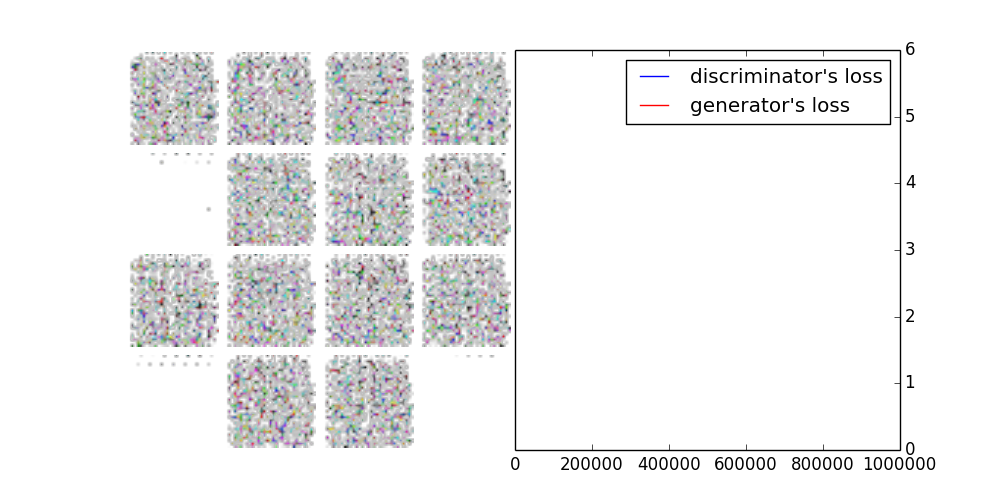
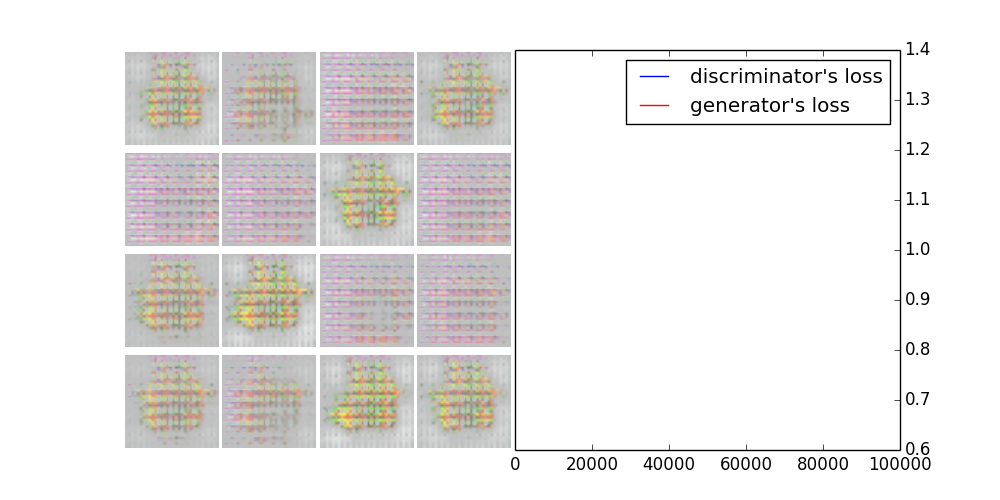
Add feature matching and use LeakyReLU instead of ReLU

diff --git a/main.py b/main.py
@@ -13,7 +13,7 @@ import scipy.misc
 import commands
 import time
 
-ITERATIONS = 100
+ITERATIONS = 10
 BATCH_SIZE = 64
 EPOCHS = 10000
 IMAGE_SIZE = 32*32*4
@@ -29,8 +29,7 @@ image_filenames = get_image_filenames() # Load all image filenames into memory
 
 def get_pixels_for_filename(filename):
     img = scipy.misc.imread(filename, mode='RGBA')
-    img = Image.fromarray(img)
-    return np.array(img.getdata())
+    return np.array(img)
 
 curr_image_idx = 0
 def get_next_image_batch(batch_size):
@@ -50,16 +49,19 @@ def get_next_image_batch(batch_size):
 				shuffle(image_filenames)
 			# Note that we don't store all pixels in memory bec of memory constraints
 			pix = get_pixels_for_filename(image_filenames[curr_image_idx])
-			if pix.shape != (1024, 4):
+			if pix.shape != (32, 32, 4):
 				print('Invalid pixels shape for file ' + image_filenames[curr_image_idx] + ': ' + str(pix.shape))
 				# Skip this image
 				curr_image_idx += 1
 				continue
 
-			batch[i] = get_pixels_for_filename(image_filenames[curr_image_idx]).reshape([IMAGE_SIZE])
+			batch[i] = pix.reshape([IMAGE_SIZE])
 			curr_image_idx += 1
 			break
 	return batch
+
+def denormalize_image(image):
+	return np.multiply(np.divide((1 + image), 2), 255)
 
 def plot(samples, D_loss, G_loss, epoch, total):
 	fig = plt.figure(figsize=(10, 5))
@@ -78,7 +80,7 @@ def plot(samples, D_loss, G_loss, epoch, total):
 	# Generate images
 	for i, sample in enumerate(samples):
 		# need to convert sample from range -1,1 to 0 255
-		sample = np.multiply(np.divide((1 + sample), 2), 255)
+		sample = denormalize_image(sample)
 		if i > 4* 4 - 1:
 			break
 		# Plot in the left half
@@ -87,7 +89,7 @@ def plot(samples, D_loss, G_loss, epoch, total):
 		ax.set_xticklabels([])
 		ax.set_yticklabels([])
 		ax.set_aspect('equal')
-		plt.imshow(sample.reshape(32, 32, 4))
+		plt.imshow(sample.reshape(32, 32, 4).astype(np.uint8))
 
 	plt.savefig('./output/' + str(epoch + 1) + '.png')
 	print('./output/' + str(epoch + 1) + '.png')
@@ -96,6 +98,10 @@ def plot(samples, D_loss, G_loss, epoch, total):
 def variable_summaries(var):
 	"""Attach a lot of summaries to a Tensor (for TensorBoard visualization)."""
 	tf.summary.histogram(var.op.name, var)
+
+def gaussian_noise_layer(input_layer, std):
+	noise = tf.random_normal(shape=tf.shape(input_layer), mean=0.0, stddev=std, dtype=tf.float32) 
+	return input_layer + noise
 
 def Conv2d(input, output_dim=64, kernel=(5, 5), strides=(2, 2), stddev=0.02, name='conv_2d'):
 
@@ -151,13 +157,14 @@ def Dense(input, output_dim, stddev=0.02, name='dense'):
 def BatchNormalization(input, name='bn'):
 	return tf.contrib.layers.batch_norm(input, center=True, scale=True, decay=0.9, is_training=True, updates_collections=None, epsilon=1e-5)	
 	
-def LeakyReLU(input, leak=0.2, name='lrelu'):
+def LeakyReLU(input, leak=0.4, name='lrelu'):
 	
-	return tf.maximum(input, leak*input)
+	return tf.maximum(input, leak*input, name='LeakyRelu')
 
 def Discriminator(X, reuse=False, name='d'):
 	# 2 conv3s, avg pool. then 2 conv3s, avg pool.
 	with tf.variable_scope(name, reuse=reuse):
+		X = gaussian_noise_layer(X, 0.2)
 		if len(X.get_shape()) > 2:
 			# X: -1, 32, 32, 4
 			D_conv1 = Conv2d(X, output_dim=32, kernel=(3,3), name='Disc_conv1')
@@ -178,9 +185,9 @@ def Discriminator(X, reuse=False, name='d'):
 		D_h4_pooled = tf.nn.avg_pool(D_h4, ksize=[1, 2, 2, 1], strides=[1, 2, 2, 1], padding='SAME')
 
 		D_r = tf.reshape(D_h4_pooled, [-1, 256])
-		D_h5 = tf.nn.dropout(D_r, 0.7)
+		D_h5 = tf.nn.dropout(D_r, 0.6)
 		D_h6 = Dense(D_h5, output_dim=1, name='Disc_h6')
-		return tf.nn.sigmoid(D_h6), D_h6
+		return tf.nn.sigmoid(D_h6), D_h6, D_h4
 
 def Generator(z, name='g'):
 
@@ -192,29 +199,41 @@ def Generator(z, name='g'):
 
 		G_1 = Dense(z, output_dim=1024*4*4, name='Gen_1')
 		G_bn1 = BatchNormalization(G_1, name='Gen_bn1')
-		G_h1 = tf.nn.relu(G_bn1)
+		G_h1 = LeakyReLU(G_bn1)
+		with tf.name_scope('activation_1'):
+			variable_summaries(G_h1)
 		G_r1 = tf.reshape(G_h1, [-1, 4, 4, 1024])
 
 		G_conv2 = Deconv2d(G_r1, output_dim=512, batch_size=BATCH_SIZE, name='Gen_conv2')
 		G_bn2 = BatchNormalization(G_conv2, name='Gen_bn2')
-		G_h2 = tf.nn.relu(G_bn2)
+		G_h2 = LeakyReLU(G_bn2)
+		with tf.name_scope('activation_2'):
+			variable_summaries(G_h2)
 
 		G_conv3 = Deconv2d(G_h2, output_dim=256, batch_size=BATCH_SIZE, name='Gen_conv3')
 		G_bn3 = BatchNormalization(G_conv3, name='Gen_bn3')
-		G_h3 = tf.nn.relu(G_bn3)
+		G_h3 = LeakyReLU(G_bn3)
+		with tf.name_scope('activation_3'):
+			variable_summaries(G_h3)
 
 		G_conv4 = Deconv2d(G_h3, output_dim=4, batch_size=BATCH_SIZE, name='Gen_conv4')
 		G_bn4 = BatchNormalization(G_conv4, name='Gen_bn4')
-		G_h4 = tf.nn.relu(G_bn4)
-                G_r4 = tf.reshape(G_h4, [-1, 32*32*4]) # -1 is for batch size
-                return tf.nn.tanh(G_r4)
+		G_h4 = LeakyReLU(G_bn4)
+		with tf.name_scope('activation_4'):
+			variable_summaries(G_h4)
+
+		G_r4 = tf.reshape(G_h4, [-1, 32*32*4]) # -1 is for batch size
+		tanh_layer = tf.nn.tanh(G_r4)
+		with tf.name_scope('tanh'):
+			variable_summaries(tanh_layer)
+		return tanh_layer
 
 X = tf.placeholder(tf.float32, shape=[None, IMAGE_SIZE])
 z = tf.placeholder(tf.float32, shape=[None, 100])
 
 G = Generator(z, 'Generator')
-D_real_prob, D_real_logits = Discriminator(X, False, 'Discriminator')
-D_fake_prob, D_fake_logits = Discriminator(G, True, 'Discriminator')
+D_real_prob, D_real_logits, feature_matching_real = Discriminator(X, False, 'Discriminator')
+D_fake_prob, D_fake_logits, feature_matching_fake = Discriminator(G, True, 'Discriminator')
 
 tf.summary.histogram("d_real_prob/activation", tf.identity(D_real_prob, 'd_real_prob'))
 tf.summary.histogram("d_fake_prob/activation", tf.identity(D_fake_prob, 'd_fake_prob'))
@@ -222,11 +241,13 @@ tf.summary.histogram("d_fake_prob/activation", tf.identity(D_fake_prob, 'd_fake_
 D_real = tf.reduce_mean(tf.nn.sigmoid_cross_entropy_with_logits(logits=D_real_logits, labels=(tf.ones_like(D_real_logits) * (0.8)))) # one sided label smoothing
 D_fake = tf.reduce_mean(tf.nn.sigmoid_cross_entropy_with_logits(logits=D_fake_logits, labels=tf.zeros_like(D_fake_logits)))
 D_fake_wrong = tf.reduce_mean(tf.nn.sigmoid_cross_entropy_with_logits(logits=D_fake_logits, labels=tf.ones_like(D_fake_logits)))
+feature_matching_loss = tf.reduce_mean(tf.nn.l2_loss(feature_matching_real - feature_matching_fake)) / (16 * 16)
 
 tf.summary.scalar("D_real", D_real)
 tf.summary.scalar("D_fake", D_fake)
+tf.summary.scalar("feature_matching_loss", feature_matching_loss)
 D_loss = D_real + D_fake
-G_loss = D_fake_wrong
+G_loss = D_fake_wrong + 0.2 * feature_matching_loss
 
 vars = tf.trainable_variables()
 d_params = [v for v in vars if v.name.startswith('Discriminator/')]
@@ -242,8 +263,8 @@ def train(loss_tensor, params, learning_rate, beta1):
 	return optimizer.apply_gradients(grads)
 
 
-D_solver = train(D_loss, d_params, learning_rate=1e-4, beta1=0.1)
-G_solver = train(G_loss, g_params, learning_rate=2e-4, beta1=0.3)
+D_solver = train(D_loss, d_params, learning_rate=1e-4, beta1=0.5)
+G_solver = train(G_loss, g_params, learning_rate=1e-3, beta1=0.5)
 
 def normalize_image_batches(image_batches):
 	normalized_batches = np.zeros(image_batches.shape)
@@ -254,10 +275,10 @@ def normalize_image_batches(image_batches):
 with tf.Session() as sess:
 	merged = tf.summary.merge_all()
 	train_writer = tf.summary.FileWriter('tensorboard/',
-                                      	  sess.graph)
+										 sess.graph)
 
 	sess.run(tf.global_variables_initializer())
-    
+
 	D_loss_vals = []
 	G_loss_vals = []
 
@@ -266,13 +287,20 @@ with tf.Session() as sess:
 		for i in range(ITERATIONS):
 			x = get_next_image_batch(BATCH_SIZE)
 			x = normalize_image_batches(x)
-			rand = np.random.uniform(0., 1., size=[BATCH_SIZE, 100])
-			summary, _, D_loss_curr = sess.run([merged, D_solver, D_loss], {X: x, z: rand})
-			train_writer.add_summary(summary, e*ITERATIONS + i + 1)
-			rand = np.random.uniform(0., 1., size=[BATCH_SIZE, 100])
 
-			_, G_loss_curr = sess.run([G_solver, G_loss], {z: rand})
-			_, G_loss_curr = sess.run([G_solver, G_loss], {z: rand})
+			rand = np.random.uniform(0., 1., size=[BATCH_SIZE, 100]).astype(np.float32)
+			_, D_loss_curr = sess.run([D_solver, D_loss], {X: x, z: rand})
+
+			_, G_loss_curr = sess.run([G_solver, G_loss], {X: x, z: rand})
+			summary, _, G_loss_curr = sess.run([merged, G_solver, G_loss], {X: x, z: rand})
+
+			generated_images = sess.run(G, {z: rand})
+			print("Generated images")
+			for b in generated_images:
+				print("Another image:")
+				print(denormalize_image(b).reshape(32, 32, 4).astype(np.uint8))
+
+			train_writer.add_summary(summary, e*ITERATIONS + i + 1)
 
 			D_loss_vals.append(D_loss_curr)
 			G_loss_vals.append(G_loss_curr)
